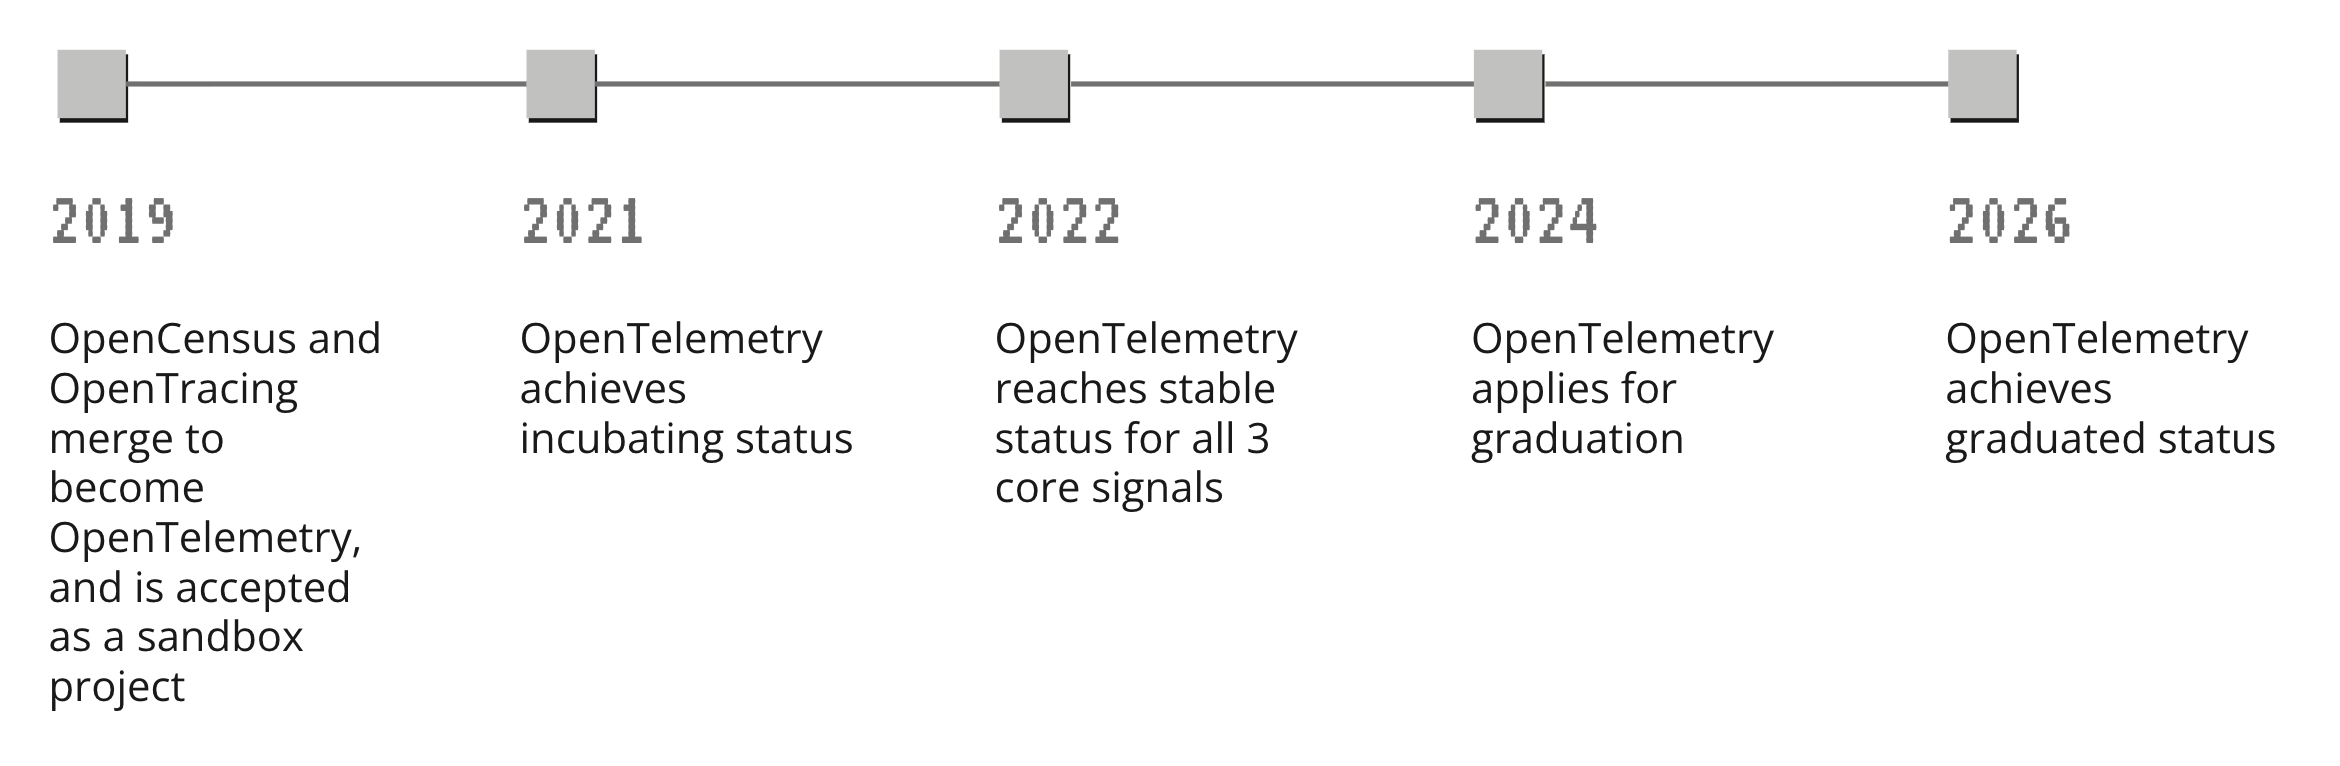
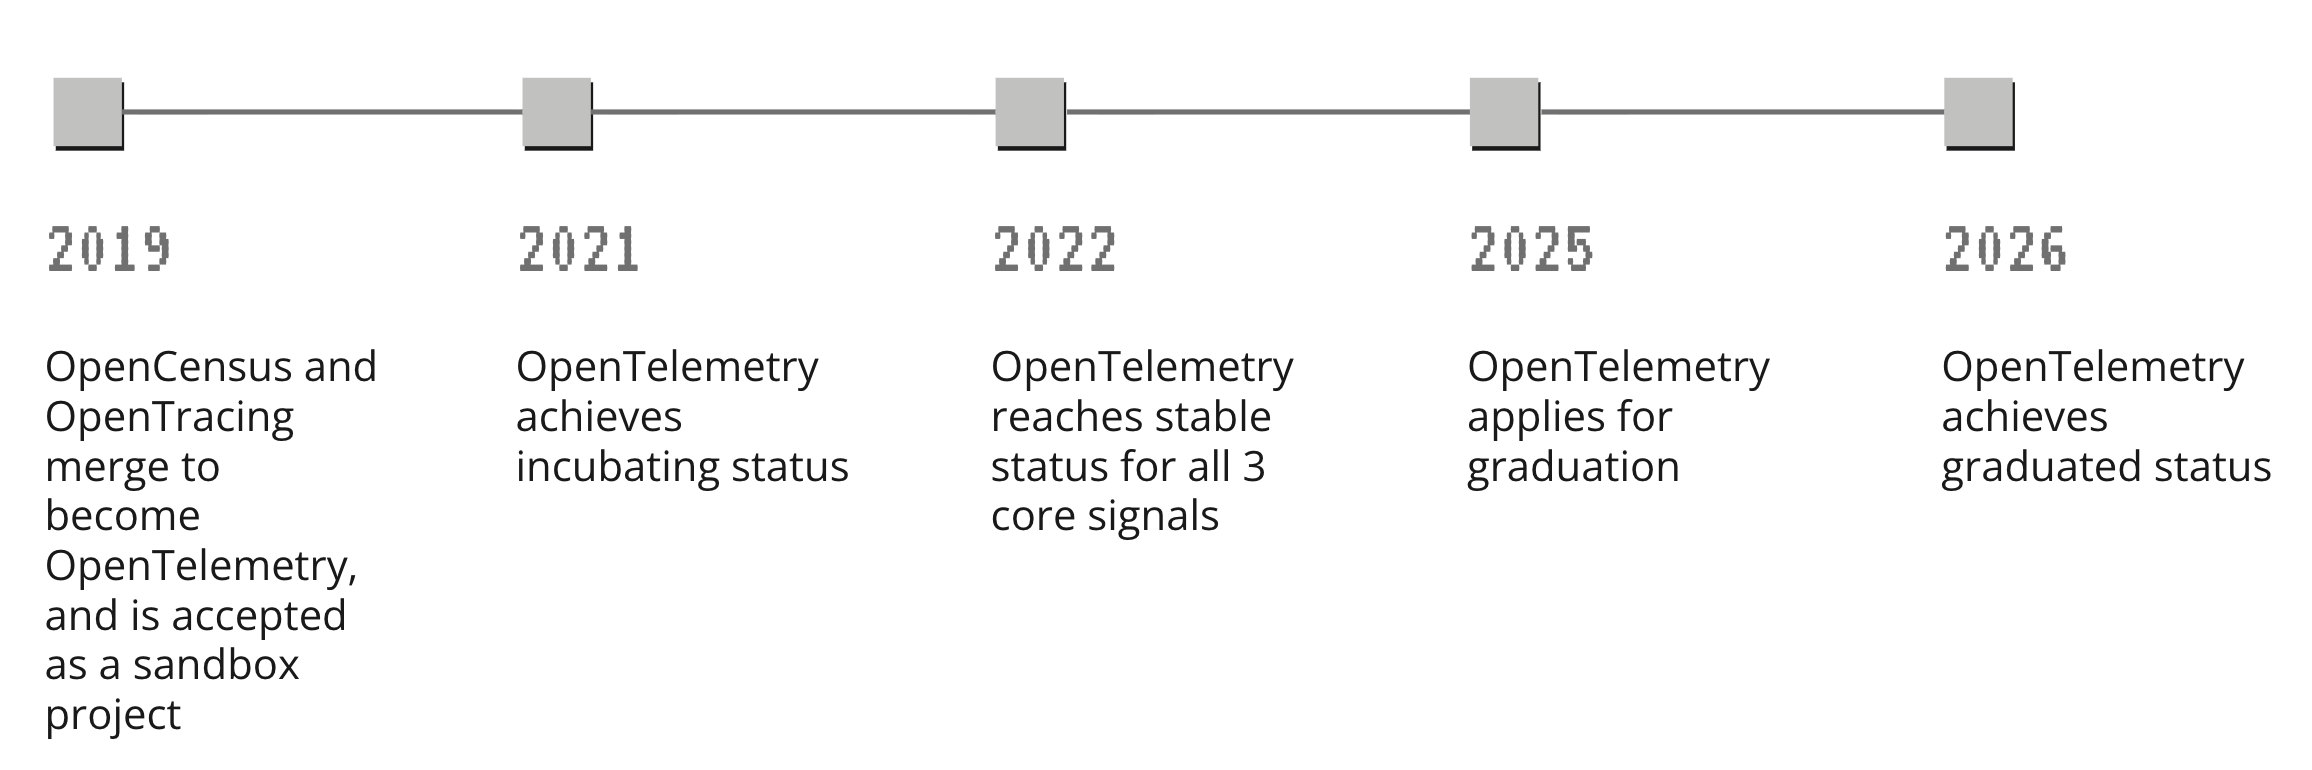
Update OTel grad timeline

diff --git a/content/en/blog/2026/otel-grad-now-what/index.md b/content/en/blog/2026/otel-grad-now-what/index.md
@@ -80,7 +80,7 @@ graduation helps to cement that.
 ## Graduation!
 
 OpenTelemetry achieved graduated status in May 2026, having started its path to
-graduation in 2024.
+graduation in 2025.
 
 So what does it take to become a graduated CNCF project? Projects must fulfill
 the following criteria: